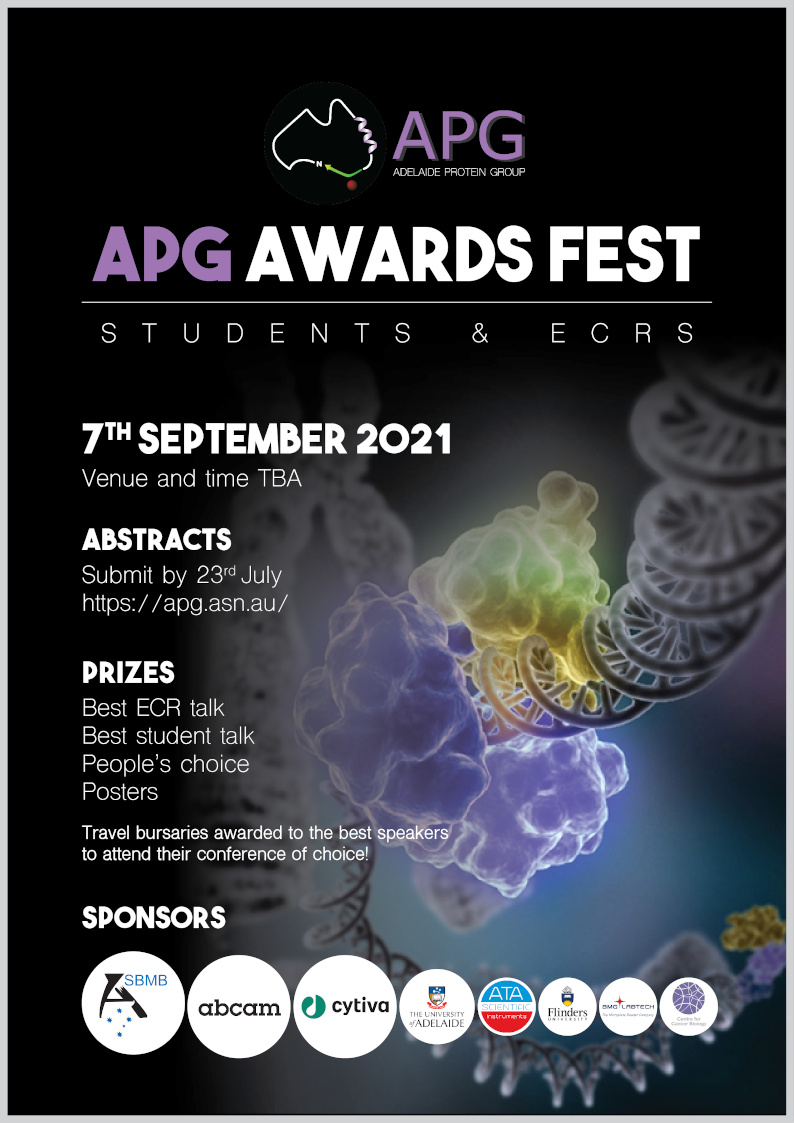
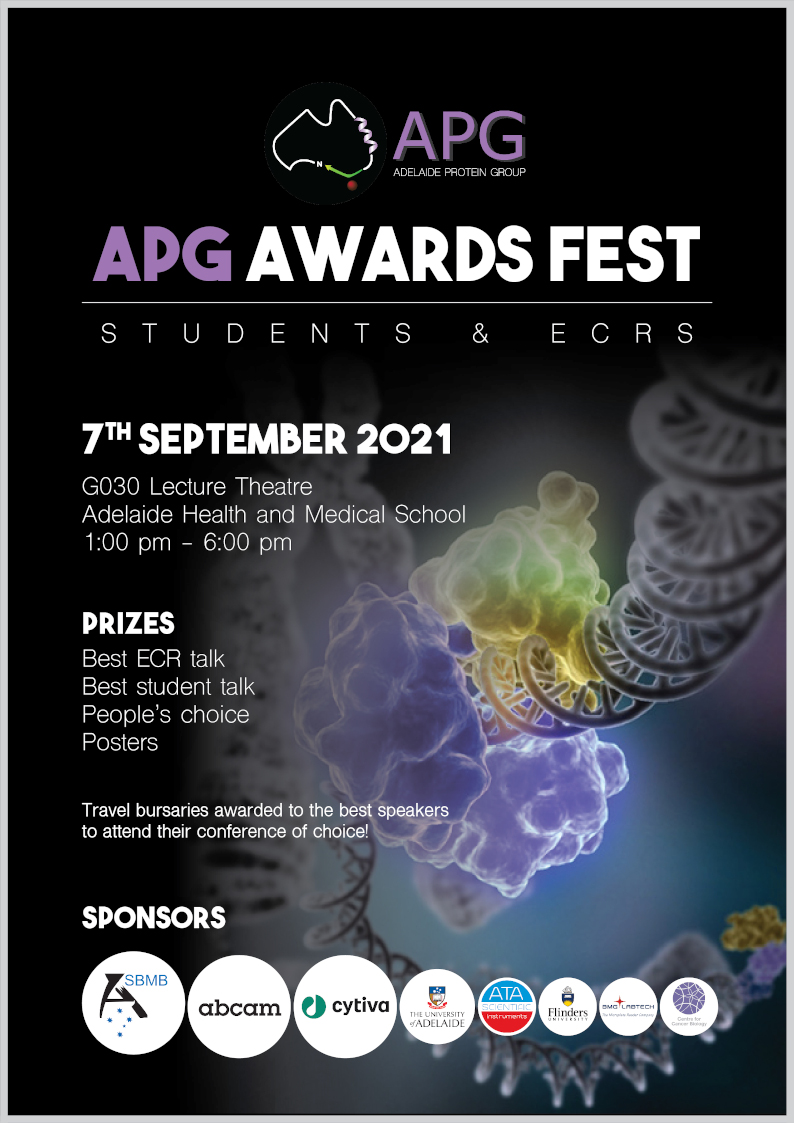
Awards Fest 2021!

diff --git a/_posts/2021-08-23-awardsfest-speakers.md b/_posts/2021-08-23-awardsfest-speakers.md
@@ -1,0 +1,13 @@
+---
+layout: post
+title: "AwardsFest 2021"
+categories: events
+---
+
+Join us for the APG AwardsFest 2021! [RSVP via eventbrite](https://www.eventbrite.com.au/e/apg-awardsfest-2021-tickets-168046199707)
+
+Check out our amazing lineup of speakers below!
+
+![](assets/images/2021_awardsfest.jpg)
+
+![](assets/images/2021_awardsfestSpeakers.jpg)
